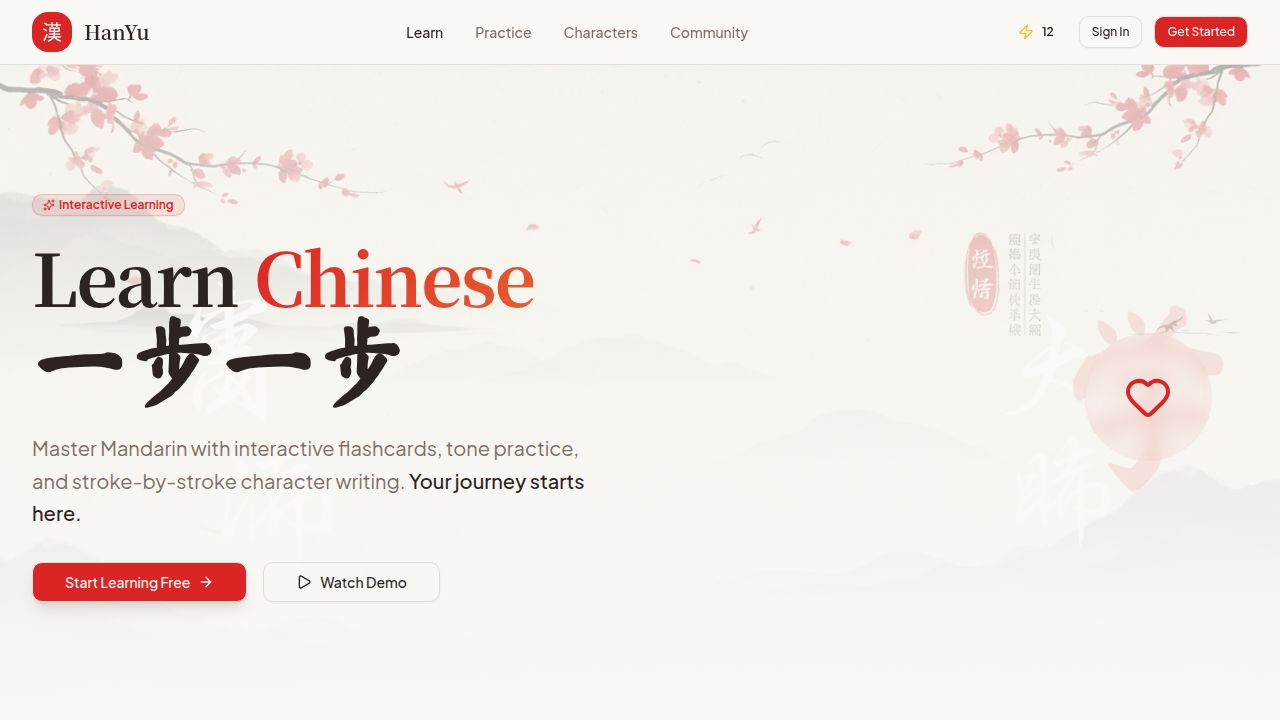
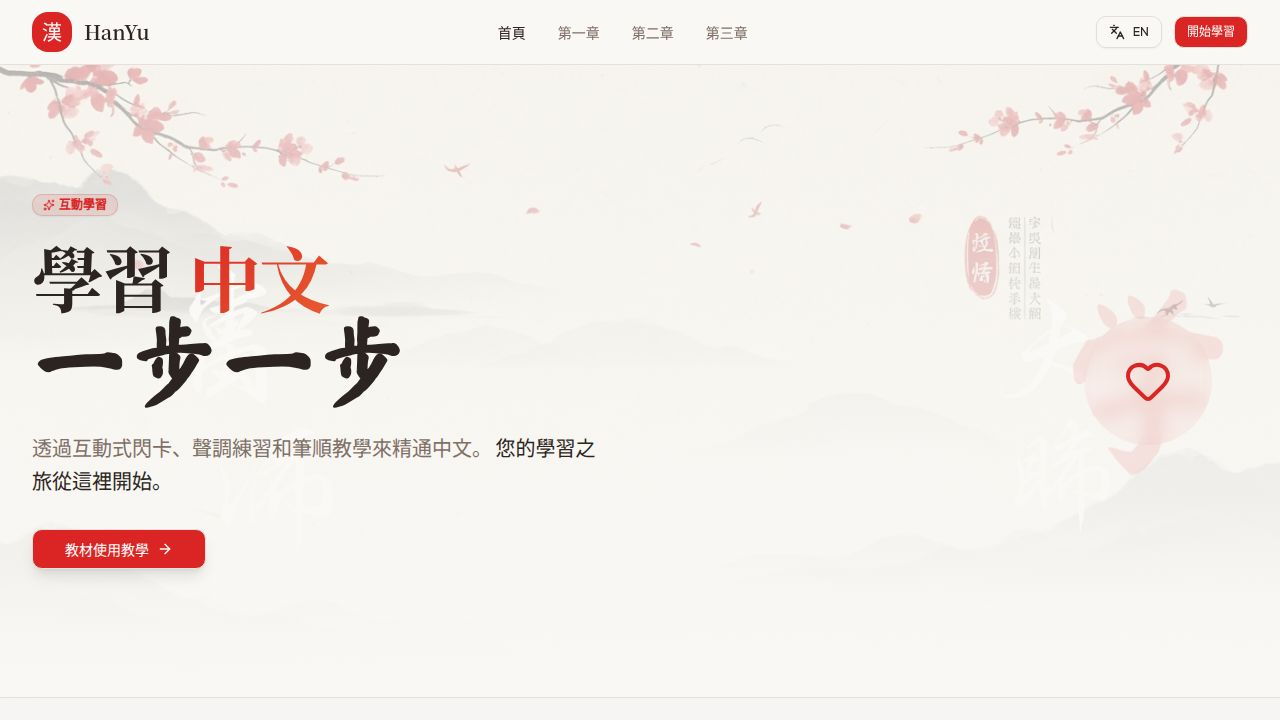
Update button text and add scroll functionality to teaching materials section
Updates the "Start Learning" button text to "教材使用教學" (or "How to Use" in English) and implements smooth scrolling to the "tools-section" element upon click, also adding a subtle scale animation to the section title when it comes into view.

Replit-Commit-Author: Agent
Replit-Commit-Session-Id: f5517adb-6271-45bf-8a5d-8714c1532456
Replit-Commit-Checkpoint-Type: full_checkpoint
Replit-Commit-Event-Id: afa37849-5d41-422e-8a77-edb63e5522aa
Replit-Commit-Screenshot-Url: https://storage.googleapis.com/screenshot-production-us-central1/5dcf2843-d3e7-4715-9185-db667d82b80a/f5517adb-6271-45bf-8a5d-8714c1532456/CvbCNmV
Replit-Helium-Checkpoint-Created: true

diff --git a/client/src/pages/home.tsx b/client/src/pages/home.tsx
@@ -416,7 +416,17 @@ export default function Home() {
                 <span className="text-foreground font-medium"> {t.hero.descriptionHighlight}</span>
               </p>
               <div className="mt-8 flex flex-wrap gap-4">
-                <Button size="lg" className="gap-2 bg-primary hover:bg-primary/90 shadow-lg" data-testid="button-start-learning">
+                <Button 
+                  size="lg" 
+                  className="gap-2 bg-primary hover:bg-primary/90 shadow-lg" 
+                  data-testid="button-start-learning"
+                  onClick={() => {
+                    const toolsSection = document.getElementById('tools-section');
+                    if (toolsSection) {
+                      toolsSection.scrollIntoView({ behavior: 'smooth' });
+                    }
+                  }}
+                >
                   {t.hero.startLearning}
                   <ArrowRight className="w-5 h-5" />
                 </Button>
@@ -469,14 +479,20 @@ export default function Home() {
         </div>
       </section>
 
-      <section className="py-20">
+      <section id="tools-section" className="py-20 scroll-mt-20">
         <div className="max-w-7xl mx-auto px-4 sm:px-6 lg:px-8">
-          <div className="text-center mb-12">
+          <motion.div 
+            className="text-center mb-12"
+            initial={{ opacity: 0.7 }}
+            whileInView={{ opacity: 1, scale: 1.02 }}
+            viewport={{ once: false }}
+            transition={{ duration: 0.4 }}
+          >
             <h2 className="text-3xl md:text-4xl font-bold font-serif-chinese">{t.tools.title}</h2>
             <p className="mt-4 text-muted-foreground max-w-2xl mx-auto">
               {t.tools.description}
             </p>
-          </div>
+          </motion.div>
 
           <Tabs defaultValue="flashcards" className="w-full">
             <TabsList className="grid w-full max-w-lg mx-auto grid-cols-4 mb-8">

diff --git a/client/src/lib/i18n.ts b/client/src/lib/i18n.ts
@@ -16,7 +16,7 @@ export const translations = {
       subtitle: "一步一步",
       description: "透過互動式閃卡、聲調練習和筆順教學來精通中文。",
       descriptionHighlight: "您的學習之旅從這裡開始。",
-      startLearning: "開始學習",
+      startLearning: "教材使用教學",
     },
     stats: {
       charactersLearned: "已學習字符",
@@ -98,7 +98,7 @@ export const translations = {
       subtitle: "一步一步",
       description: "Master Mandarin with interactive flashcards, tone practice, and stroke-by-stroke character writing.",
       descriptionHighlight: "Your journey starts here.",
-      startLearning: "Start Learning",
+      startLearning: "How to Use",
     },
     stats: {
       charactersLearned: "Characters Learned",
